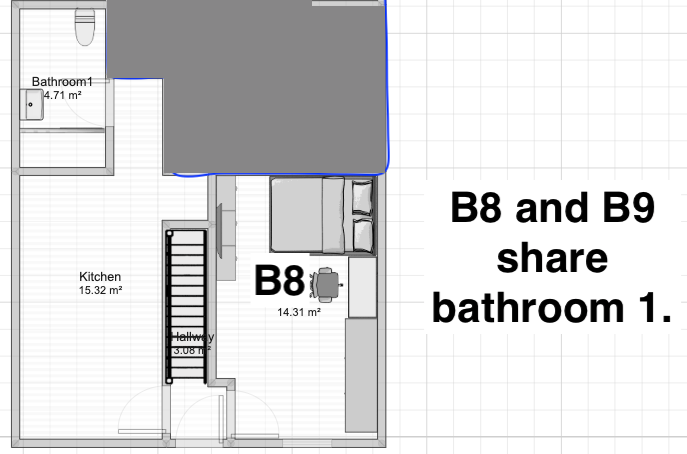
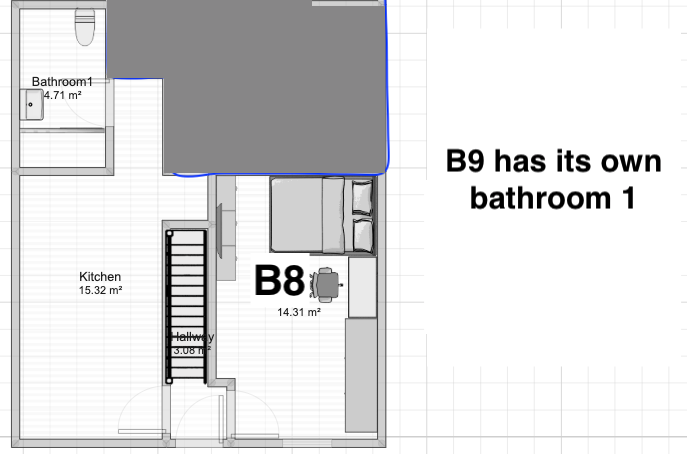
update ads

diff --git a/GU28FD-US.html b/GU28FD-US.html
@@ -1,0 +1,152 @@
+<!DOCTYPE html>
+
+<html>
+<head>
+	<meta charset="UTF-8">
+	<title>萨里大学房源 GU28FD</title>
+	<link rel="stylesheet" type="text/css" href="css/style.css">
+	<!--[if IE 8]>
+		<link rel="stylesheet" type="text/css" href="css/ie8.css">
+	<![endif]-->
+	<!--[if IE 7]>
+		<link rel="stylesheet" type="text/css" href="css/ie7.css">
+	<![endif]-->
+	<!--[if IE 6]>
+		<link rel="stylesheet" type="text/css" href="css/ie6.css">
+	<![endif]-->
+	<style>
+	.pagination {
+	    display: inline-block;
+	}
+
+	.pagination a {
+	    color: black;
+	    float: right;
+	    padding: 8px 16px;
+	    text-decoration: none;
+	    transition: background-color .3s;
+	    border: 1px solid #ddd;
+	    margin: 0 4px;
+	}
+
+	.pagination a.active {
+	    background-color: #4CAF50;
+	    color: white;
+	    border: 1px solid #4CAF50;
+	}
+
+	.pagination a:hover:not(.active) {background-color: #ddd;}
+	</style>
+</head>
+<body>
+	<div id="header">
+		<div>
+			<div id="logo">
+                <a href="list.html"><img src="img/brinahouseLTDlongLogo.png" alt="Logo" style="width:950px;height:340px;"></a>
+			</div>
+			<div id="navigation">
+                <div>
+                    <ul>
+                        <li><a href="list.html">List </a></li>
+                        <li><a href="GU29SD-24.html">GU29SD/24</a></li>
+                        <li><a href="GU29SD.html">GU29SD</a></li>
+                        <li class="current"><a href="GU28FD-US.html">GU28FD/flat1</a></li>
+                        <li><a href="GU28FD-DS.html">GU28FD/flat2</a></li>
+                    </ul>
+                </div>
+			</div>
+		</div>
+	</div>
+	<div id="body">
+		 <div class="content">
+
+		  	<!--
+		      	<img  src="images/logo - Banner2.png" alt="Man Algorithm" class="pull-right"/>
+			-->
+
+			<h1>
+				<p> Flat - 8 min walk to University of Surrey</p></h1>
+            <h2 style="background-color:Pink; color=#fff">
+                <table style="width:100%">
+                    <tr>
+                        <th>Email</th>
+                        <td><a href=mailto:brinahouseltd@gmail.com>brinahouseltd@gmail.com</a></td>
+                    </tr>
+                    <tr>
+                        <th rowspan="2">Telephone:</th>
+                        <td>英国🇬🇧：+44 07503016565</td>
+                    </tr>
+                    <tr>
+                        <td>中国🇨🇳：+86 13045832454</td>
+                    </tr>
+                    <tr>
+                        <th>Wechat</th>
+                        <td>chong600268<img src="img/2d-chong.jpg" alt="Logo" style="width:80px;height:80px;"></td>
+                    </tr>
+                    <tr>
+                        <th>Whatsapp</th>
+                        <td>(0044)07503016565</td>
+                    </tr>
+                </table>
+                
+            </h2>
+            <h2>
+
+                 <p>The property is 8 min away from both the university and Tesco (superstore), by walk. 1 min walk to bus stops, local shops.<br>
+                 The flat consists of a large bedroom, an independent kitchen, and a private bathroom (toilet, basin, and shower/bath).
+                 Super for single professional or couples. New boiler/washing machine/double glazed window. Gas central heating.
+                 Plenty space in front of the house for parking. A small park with exercising equipments in front of the house as well. <br>
+                 All bills are inclusive, including council tax, gas, electricity, TV license, broadband (350Mbps!). <br>
+                 
+                 No pets. No tenants on benefit or on other government aids.
+                 The house locates in a quiet neighborhood but super convenient. </p>
+
+Super for single professional or student. Double glazed window. Gas central heating. 
+Parking in front of the house.  <br>
+</h2>
+		</div>
+		<div id="gallery">
+			<ul>
+                <li>
+                    <a href="img/8FD/USbed1.jpg"><img src="img/8FD/USbed1.jpg" alt="front of house" style="width:210px;height:260px;"></a>
+                    
+                </li>
+                <li>
+                    <a href="img/8FD/USbed2.jpg"><img src="img/8FD/USbed2.jpg" alt="Image" style="width:210px;height:260px;"></a>
+                    
+                </li>
+                <li>
+                    <a href="img/8FD/USbed3.jpg"><img src="img/8FD/USbed3.jpg" alt="Image" style="width:210px;height:260px;"></a>
+                    
+                </li>
+                <li>
+                    <a href="img/8FD/USbed4.jpg"><img src="img/8FD/USbed4.jpg" alt="Image" style="width:210px;height:260px;"></a>
+                    
+                </li>
+                <li>
+                    <a href="img/8FD/USkitchen1.jpg"><img src="img/8FD/USkitchen1.jpg" alt="Image" style="width:210px;height:260px;"></a>
+                </li>
+                <li>
+                    <a href="img/8FD/USkitchen2.jpg"><img src="img/8FD/USkitchen2.jpg" alt="Image" style="width:210px;height:260px;"></a>
+                    
+                </li>
+                <li>
+                    <a href="img/8FD/USbath.jpg"><img src="img/8FD/USbath.jpg" alt="Image" style="width:210px;height:260px;"></a>
+                    
+                </li>
+                <li>
+                    <a href="img/8FD/USfloorplan.png"><img src="img/8FD/USfloorplan.png" alt="Image" style="width:210px;height:260px;"></a>
+                    
+                </li>
+                <li>
+                    <a href="img/8FD/USmap.png"><img src="img/8FD/USmap.png" alt="Image" style="width:210px;height:260px;"></a>
+                    
+                </li>
+                
+			</ul>
+		</div>
+					
+	</div>
+	
+</body>
+</html>

diff --git a/GU28FD-DS.html b/GU28FD-DS.html
@@ -50,7 +50,8 @@
                         <li><a href="list.html">List </a></li>
                         <li><a href="GU29SD-24.html">GU29SD/24</a></li>
                         <li><a href="GU29SD.html">GU29SD</a></li>
-                        <li class="current"><a href="GU28FD.html">GU28FD</a></li>
+                        <li><a href="GU28FD-US.html">GU28FD/flat1</a></li>
+                        <li class="current"><a href="GU28FD-DS.html">GU28FD/flat2</a></li>
                     </ul>
                 </div>
 			</div>
@@ -90,57 +91,50 @@
                 
             </h2>
             <h2>
+                <p>The property is 8 min away from both the university and Tesco (superstore), by walk. 1 min walk to bus stops, local shops.<br><br>
 
-                 <p>The property is 8 min away from both the university and Tesco (superstore), by walk. 1 min walk to bus stops, local shops.<br>
-                 The flat consists of a large bedroom, an independent kitchen, and a private bathroom (toilet, basin, and shower/bath).
-                 Super for single professional or couples. New boiler/washing machine/double glazed window. Gas central heating.
-                 Plenty space in front of the house for parking. A small park with exercising equipments in front of the house as well. <br>
-                 All bills are inclusive, including council tax, gas, electricity, TV license, broadband (350Mbps!). <br>
-                 
-                 No pets. No tenants on benefit or on other government aids.
-                 The house locates in a quiet neighborhood but super convenient. </p>
+                The flat consists of a bedroom, a full function kitchen, and a bathroom (toilet, basin, and shower), a large garden with car ports area. Super for single professional or couples. Gas central heating, washing machine, double glazed windows. Plenty space in front of the house for parking. A small park with exercising equipments in front of the house as well.<br><br>
 
-Super for single professional or student. Double glazed window. Gas central heating. 
-Parking in front of the house.  <br>
+                Bills are inclusive, including water, gas, electricity, broadband (350Mbps!).<br><br>
+
+                No pets. No tenants on benefit or on other government aids. The house locates in a quiet neighborhood while super convenient with buses and walking distance to University, Hospital, and Tesco.<br></p>
+                
 </h2>
 		</div>
 		<div id="gallery">
 			<ul>
                 <li>
-                    <a href="img/8FD/USbed1.jpg"><img src="img/8FD/USbed1.jpg" alt="front of house" style="width:210px;height:260px;"></a>
+                    <a href="img/8FD/DS/floorplan.png"><img src="img/8FD/DS/floorplan.png" alt="floor plan" style="width:210px;height:260px;"></a>
                     
                 </li>
                 <li>
-                    <a href="img/8FD/USbed2.jpg"><img src="img/8FD/USbed2.jpg" alt="Image" style="width:210px;height:260px;"></a>
+                    <a href="img/8FD/DS/kitchen-1.jpg"><img src="img/8FD/DS/kitchen-1.jpg" alt="Image" style="width:210px;height:260px;"></a>
                     
                 </li>
                 <li>
-                    <a href="img/8FD/USbed3.jpg"><img src="img/8FD/USbed3.jpg" alt="Image" style="width:210px;height:260px;"></a>
+                    <a href="img/8FD/DS/kitchen-2.jpg"><img src="img/8FD/DS/kitchen-2.jpg" alt="Image" style="width:210px;height:260px;"></a>
                     
                 </li>
                 <li>
-                    <a href="img/8FD/USbed4.jpg"><img src="img/8FD/USbed4.jpg" alt="Image" style="width:210px;height:260px;"></a>
+                    <a href="img/8FD/DS/hallway.jpg"><img src="img/8FD/DS/hallway.jpg" alt="Image" style="width:210px;height:260px;"></a>
                     
                 </li>
                 <li>
-                    <a href="img/8FD/USkitchen1.jpg"><img src="img/8FD/USkitchen1.jpg" alt="Image" style="width:210px;height:260px;"></a>
-                </li>
-                <li>
-                    <a href="img/8FD/USkitchen2.jpg"><img src="img/8FD/USkitchen2.jpg" alt="Image" style="width:210px;height:260px;"></a>
+                    <a href="img/8FD/DS/toilet-1.jpg"><img src="img/8FD/DS/toilet-1.jpg" alt="Image" style="width:210px;height:260px;"></a>
                     
                 </li>
                 <li>
-                    <a href="img/8FD/USbath.jpg"><img src="img/8FD/USbath.jpg" alt="Image" style="width:210px;height:260px;"></a>
+                    <a href="img/8FD/DS/toilet-2.jpg"><img src="img/8FD/DS/toilet-2.jpg" alt="Image" style="width:210px;height:260px;"></a>
                     
                 </li>
                 <li>
-                    <a href="img/8FD/USfloorplan.png"><img src="img/8FD/USfloorplan.png" alt="Image" style="width:210px;height:260px;"></a>
+                    <a href="img/8FD/DS/lounge.jpg"><img src="img/8FD/DS/lounge.jpg" alt="Image" style="width:210px;height:260px;"></a>
                     
                 </li>
-                <li>
-                    <a href="img/8FD/USmap.png"><img src="img/8FD/USmap.png" alt="Image" style="width:210px;height:260px;"></a>
-                    
-                </li>
+              <li>
+                  <a href="img/8FD/DS/map.png"><img src="img/8FD/DS/map.png" alt="Image" style="width:210px;height:260px;"></a>
+                  
+              </li>
                 
 			</ul>
 		</div>

diff --git a/GU29SD-24.html b/GU29SD-24.html
@@ -50,8 +50,8 @@
                         <li><a href="list.html">List </a></li>
                         <li class="current"><a href="GU29SD-24.html">GU29SD/24</a></li>
                         <li><a href="GU29SD.html">GU29SD</a></li>
-                        <li><a href="GU29SD-24flat.html">GU29SD/flat</a></li>
-                        <!--li><a href="GU28FD.html">GU28FD</a></li-->
+                        <li><a href="GU28FD-US.html">GU28FD/flat1</a></li>
+                        <li><a href="GU28FD-DS.html">GU28FD/flat2</a></li>
                     </ul>
                 </div>
 			</div>
@@ -65,7 +65,7 @@
 			-->
 
 			<h1>
-				<p> 3 bedroom house 16 min walk to University of Surrey</p></h1>
+				<p> 2 en-suite 16 min walk to University of Surrey</p></h1>
             <h2 style="background-color:Pink; color=#fff">
                 <table style="width:100%">
                     <tr>
@@ -92,17 +92,17 @@
             </h2>
             <h2>
 
-                 The house consists of a fully functional kitchen, a large garden, 2 bathrooms and 3 private bedrooms.<br>
+                 The house consists of a fully functional kitchen, a large garden, and 2 en-suite.<br>
                  <p> 100 Mb broadband internet!  </p>
                  
                  <ul>
                      <li>[B7] 1 large en-suite with king size bed, private bathroom[available from 01/03/2020]<br>
-                         <li>[B8] a large double room with king size bed [available from 01/10/2020]<br>
-                             <li>[B9] a double room [available from 01/03/2020]<br>
+                         <!--li>[B8] a large double room with king size bed [available from 01/10/2020]<br-->
+                             <li>[B9] a double room with a private large toilet with shower downstairs [available from 01/03/2020]<br>
                                  <!--li>B4: a small single room [available from 27/07/2019]<br-->
                                          </ul>
-                 B7 has its own private bathrooms.<br>
-                 B8 and B9 share the Bathroom 1. <br>
+                 B7 has its own private bathroom inside the bedroom.<br>
+                 B9 has its own private Bathroom 1. <br>
 					     
                  <p>Convenient with <br>
                  2 mins walk to supermarket (CO-OP), gas station, and a bunches of local shops; <br>
@@ -182,7 +182,7 @@ Plenty spaces in front of the house for parking.  <br>
                     
                 </li>
                 </ul>
-                               </div>
+                               <!--/div>
                        <div id="gallery">
                                    <h1>B8 large double</h1>
                                <ul>
@@ -198,10 +198,10 @@ Plenty spaces in front of the house for parking.  <br>
                     <a href="img/9SD24/b2-3.jpg"><img src="img/9SD24/b2-3.jpg" alt="b22" style="width:210px;height:268px;"></a>
                     
                 </li>
-                </ul>
+                </ul-->
                                </div>
                        <div id="gallery">
-                                   <h1>B9 small double</h1>
+                                   <h1>B9 double room with bathroom 1 </h1>
                                <ul>
                 <li>
                     <a href="img/9SD24/b9-1.jpg"><img src="img/9SD24/b9-1.jpg" alt="Image" style="width:210px;height:268px;"></a>
@@ -217,11 +217,7 @@ Plenty spaces in front of the house for parking.  <br>
                     <a href="img/9SD24/b9-4.jpg"><img src="img/9SD24/b9-4.jpg" alt="b4" style="width:210px;height:268px;"></a>
                     
                 </li>
-                </ul>
-        </div>
-    <div id="gallery">
-             <h1>Bathroom shared by B8 and B9</h1>
-               <ul>
+                
                 <li>
                     <a href="img/9SD24/bath-1.jpg"><img src="img/9SD24/bath-1.jpg" alt="bath" style="width:210px;height:268px;"></a>
                     

diff --git a/list.html b/list.html
@@ -50,7 +50,9 @@
                         <li class="current"><a href="list.html">List </a></li>
                         <li><a href="GU29SD-24.html">GU29SD/24</a></li>
                         <li><a href="GU29SD.html">GU29SD</a></li>
-                        <li><a href="GU29SD-24flat.html">GU29SD/flat</a></li>
+                        <li><a href="GU28FD-US.html">GU28FD/flat1</a></li>
+                        <li><a href="GU28FD-DS.html">GU28FD/flat2</a></li>
+
                         <!--li><a href="GU28FD.html">GU28FD</a></li-->
                     </ul>
                 </div>
@@ -123,12 +125,12 @@
                             <td style="color:Black;">GU2 9SD</td>
                             <td><a href="http://manalgorithm.com/GU29SD-24.html">GU29SD-24</a></td>
                         </tr>
-                        <tr>
+                        <!--tr>
                             <td style="color:Black;">[B8] Large double room</td>
                             <td style="color:Black;">01/10/2020</td>
                             <td style="color:Black;">GU2 9SD</td>
                             <td><a href="http://manalgorithm.com/GU29SD-24.html">GU29SD-24</a></td>
-                        </tr>
+                        </tr-->
                         <tr>
                             <td style="color:Black;">[B9] Double room</td>
                             <td style="color:Black;">01/03/2020</td>
@@ -137,15 +139,20 @@
                         </tr>
                         <tr>
                             <td style="color:Green;">[B10] 1-bed flat</td>
-                            <td style="color:Green;"><b>26/08/2020</td>
-                            <td style="color:Green;">GU2 9SD</td>
-                            <td><a href="http://manalgorithm.com/GU29SD-24flat.html">GU29SD/flat</a></td>
+                            <td style="color:Green;"><b>01/08/2020</td>
+                            <td style="color:Green;">GU2 8FD</td>
+                            <td><a href="http://manalgorithm.com/GU28FD-US.html">GU28FD/flat1</a></td>
                         </tr>
-                        
+                        <tr>
+                            <td style="color:Green;">[B11] 1-bed flat</td>
+                            <td style="color:Green;"><b>01/03/2020</td>
+                            <td style="color:Green;">GU2 8FD</td>
+                            <td><a href="http://manalgorithm.com/GU28FD-DS.html">GU28FD/flat2</a></td>
+                        </tr>
                         </h2>
                     </table>
                     <h2>Map</h2>
-                    <img src="img/map.png" alt="map" width=100%width height="">
+                    <img src="img/mapcopy.png" alt="map" width=100%width height="">
 
                 </body>
             </html>

diff --git a/GU29SD.html b/GU29SD.html
@@ -50,8 +50,8 @@
                         <li><a href="list.html">List </a></li>
                         <li><a href="GU29SD-24.html">GU29SD/24</a></li>
                         <li class="current"><a href="GU29SD.html">GU29SD</a></li>
-                        <li><a href="GU29SD-24flat.html">GU29SD/flat</a></li>
-                        <!--li><a href="GU28FD.html">GU28FD</a></li-->
+                        <li><a href="GU28FD-US.html">GU28FD/flat1</a></li>
+                        <li><a href="GU28FD-DS.html">GU28FD/flat2</a></li>
                     </ul>
                 </div>
 			</div>
